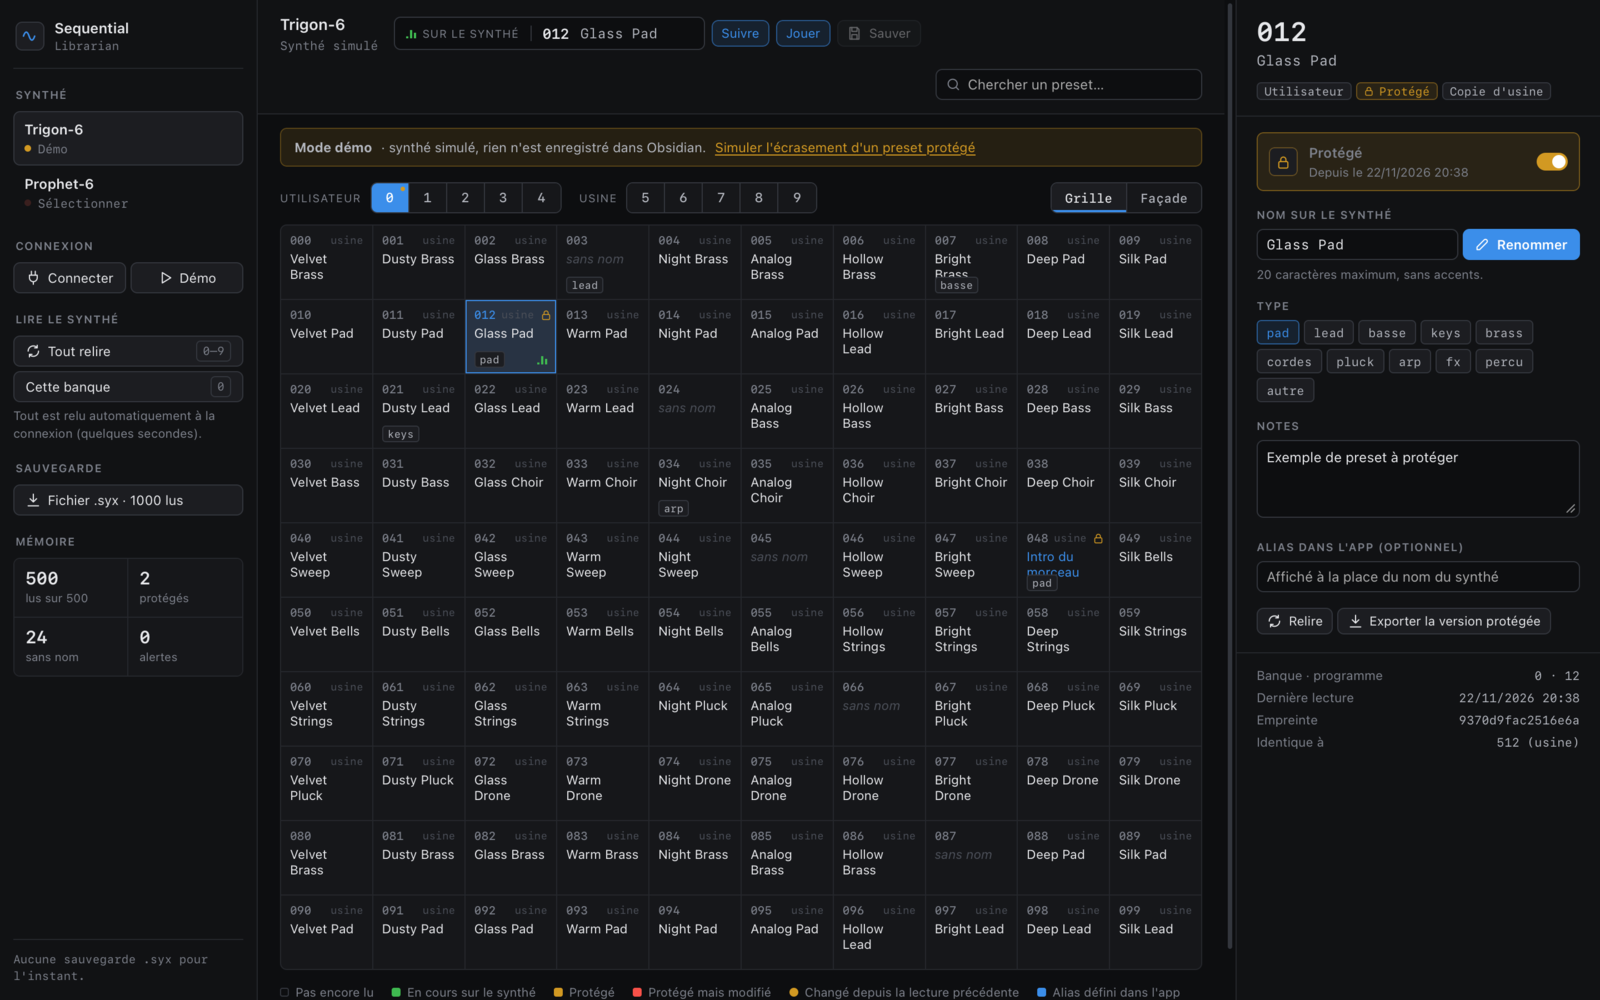
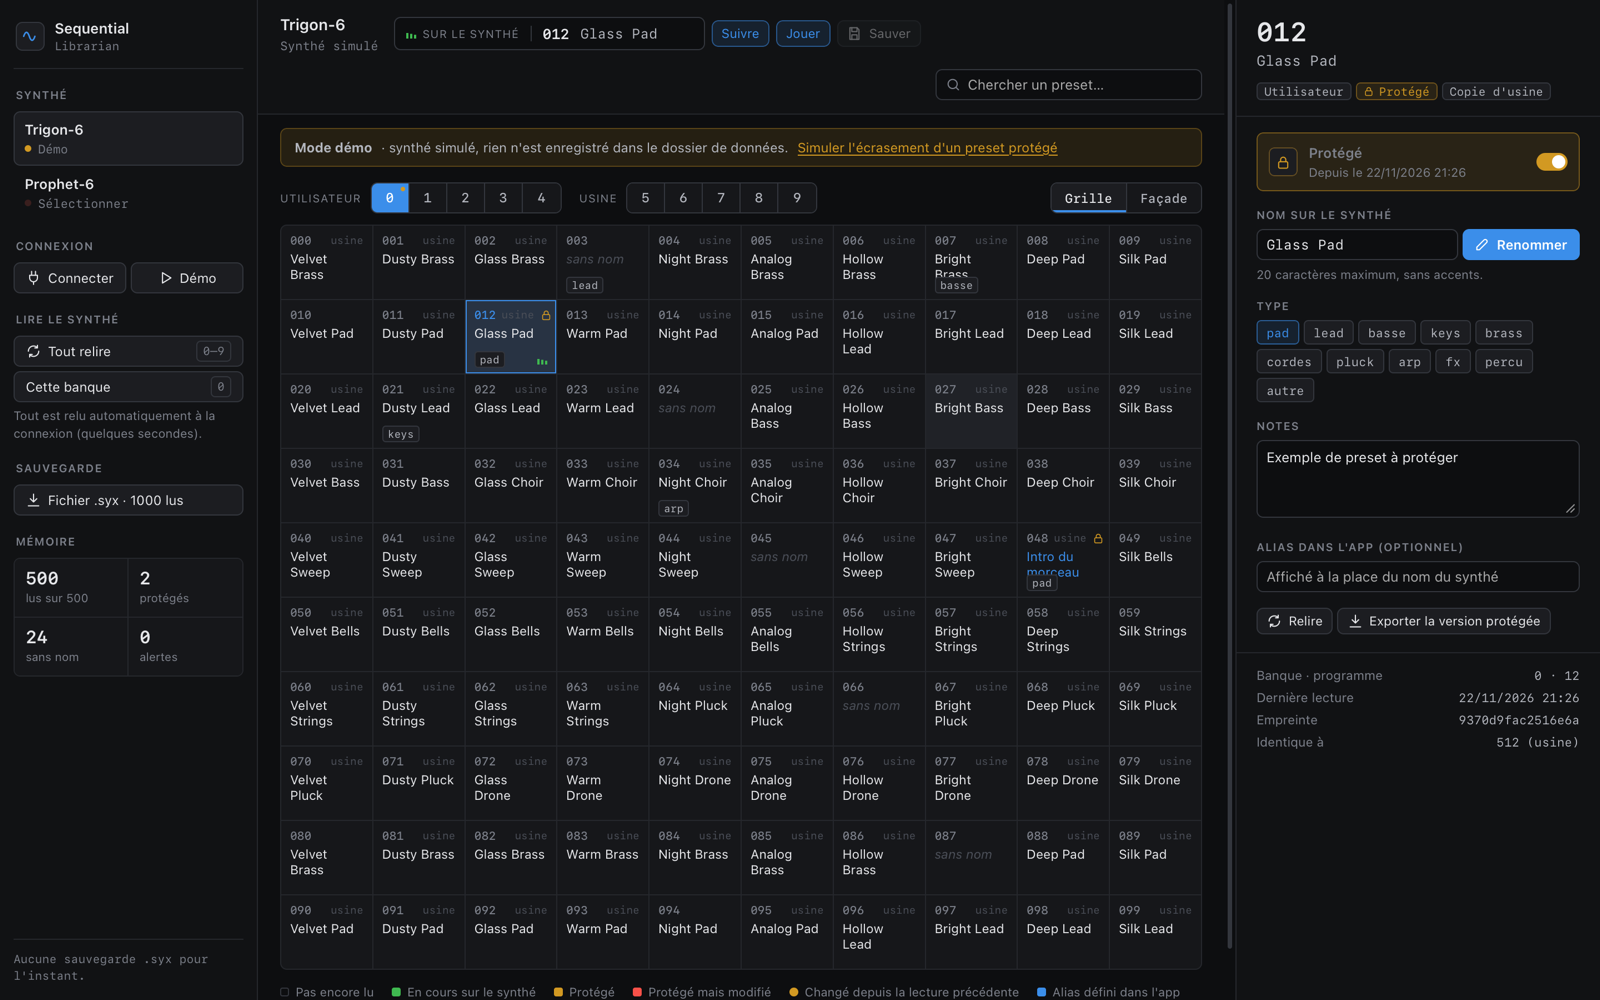
README : captures des deux façades et de la réorganisation

Changed region(s): [[0.4062, 0.124, 0.6562, 0.155]]

diff --git a/README.md b/README.md
@@ -7,7 +7,7 @@ Ces synthés ne permettent pas de nommer ni de ranger facilement leurs 1000 prog
 - voir les 1000 presets d'un coup d'œil, avec leur nom et un type (pad, lead, basse…) ;
 - charger un preset sur le synthé d'un clic ;
 - **protéger** les presets importants : alerte s'ils sont écrasés, export de la version protégée en `.syx` ;
-- **renommer** un preset directement sur le synthé (Trigon-6) ;
+- **renommer** un preset directement sur le synthé ;
 - **sauver** le son en cours, avec ses réglages modifiés, dans l'emplacement de son choix (copie `.syx` de l'ancien contenu avant chaque écriture, puis relecture pour vérifier) ;
 - **réorganiser** les banques par glisser-déposer : échanger deux presets, ou en insérer un en décalant les autres ;
 - afficher la **façade** du synthé avec les potards du son en cours, synchronisée dans les deux sens ;
@@ -15,7 +15,11 @@ Ces synthés ne permettent pas de nommer ni de ranger facilement leurs 1000 prog
 
 ![Grille des presets](docs/screenshots/grille.png)
 
-![Façade du Trigon-6](docs/screenshots/facade.png)
+| Façade du Trigon-6 | Façade du Prophet-6 |
+| :-: | :-: |
+| ![Façade du Trigon-6](docs/screenshots/facade-trigon6.png) | ![Façade du Prophet-6](docs/screenshots/facade-prophet6.png) |
+
+![Réorganisation par glisser-déposer](docs/screenshots/reorganiser.png)
 
 _Captures en mode démo (synthé simulé)._
 
